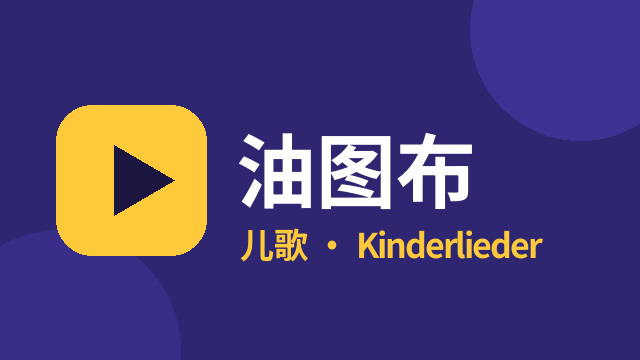
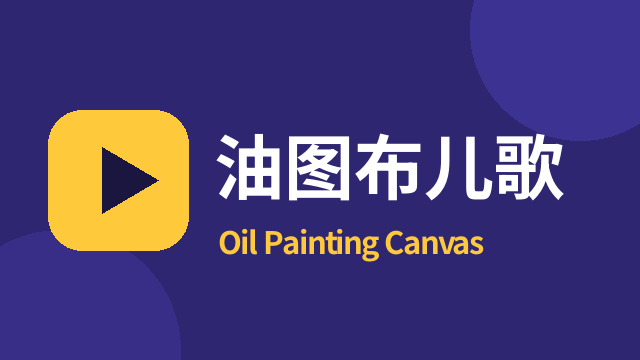
v1.4: 许可证说明和名称统一
- 「关于」页面和 GitHub 一致：软件本身按 GPL-3.0 开源（可以自由使用、修改、再分发）；「仅供个人观看」限制的是视频内容，不再和开源许可证矛盾
- 「关于」页面新增「许可证」一段，附源码地址 github.com/shuangyangtt/oil-painting-canvas
- 加上英文名 Oil Painting Canvas：关于页标题和电视桌面横幅图上都有

Changed region(s): [[0.0938, 0.275, 0.875, 0.7333], [0.0625, 0.3361, 0.0938, 0.6722], [0.0938, 0.3056, 0.125, 0.3361]]

diff --git a/app/src/main/java/app/youtubu/tv/About.kt b/app/src/main/java/app/youtubu/tv/About.kt
@@ -45,7 +45,7 @@ val ABOUT_SECTIONS = listOf(
     AboutSection(
         "这是什么",
         listOf(
-            "油图布儿歌是为家里孩子自制的儿歌播放器，只给自己家使用。",
+            "油图布儿歌（英文名 Oil Painting Canvas）是为家里孩子自制的儿歌播放器，用投影仪或电视的遥控器就能自己选歌。",
             "它不是 YouTube 或 Google 的产品，和 YouTube、Google 以及软件里出现的各个儿歌频道没有任何关系，也没有得到它们的授权或认可。",
         ),
     ),
@@ -67,9 +67,9 @@ val ABOUT_SECTIONS = listOf(
         ),
     ),
     AboutSection(
-        "仅限个人、非商业使用",
+        "视频内容仅供个人观看",
         listOf(
-            "本软件仅供个人和家庭学习、自用，不得用于任何商业用途，不得出售、出租或公开传播本软件和其中的内容。",
+            "通过本软件看到的视频属于各自的版权人，只能个人和家庭观看，不得用于商业用途，也不得录制、下载后再传播。",
             "绕开广告和不登录播放的方式可能不符合 YouTube 的服务条款。是否使用、如何使用，由使用者自行判断并承担责任。",
         ),
     ),
@@ -86,6 +86,14 @@ val ABOUT_SECTIONS = listOf(
         listOf(
             "本软件按现状提供，不提供任何形式的保证。YouTube 或 Invidious 的变化可能让部分或全部功能随时失效。",
             "频道是家长自己挑选的，视频内容由各频道负责。请家长先看过再给孩子看，并陪伴孩子使用。",
+        ),
+    ),
+    AboutSection(
+        "许可证",
+        listOf(
+            "油图布儿歌是自由软件，按 GNU 通用公共许可证第 3 版（GPL-3.0）发布：可以自由地使用、学习、修改和再分发；再分发（包括修改后的版本）时必须同样按 GPL-3.0 开源并附上源码。",
+            "许可证只适用于本软件自己的源代码，不包括软件里显示的视频、封面和频道名称。",
+            "源代码：github.com/shuangyangtt/oil-painting-canvas",
         ),
     ),
 )
@@ -136,7 +144,7 @@ fun AboutScreen(state: AppState) {
                 .padding(horizontal = 120.dp, vertical = 40.dp),
         ) {
             Row(verticalAlignment = Alignment.Bottom) {
-                T("关于油图布儿歌", size = 30.sp, weight = FontWeight.Bold)
+                T("关于油图布儿歌 · Oil Painting Canvas", size = 30.sp, weight = FontWeight.Bold)
                 Spacer(Modifier.width(16.dp))
                 T("版本 ${appVersion(context)}", size = 16.sp, color = C.dim)
             }

diff --git a/README.md b/README.md
@@ -1,6 +1,6 @@
-<p align="center"><img src="docs/banner.png" width="360" alt="油图布"></p>
+<p align="center"><img src="docs/banner.png" width="360" alt="油图布儿歌"></p>
 
-# 油图布 · Oil Painting Canvas
+# 油图布儿歌 · Oil Painting Canvas
 
 给两岁孩子用**投影仪 / 安卓电视遥控器**自己选儿歌的播放器。一排排大封面，不认字也能选；只显示家长挑好的英文和德文儿歌频道，没有广告、搜索框、评论和推荐。
 
@@ -65,6 +65,7 @@ echo "sdk.dir=$HOME/Android/Sdk" > local.properties
 
 | 版本 | 内容 |
 |---|---|
+| [v1.4](../../releases/tag/v1.4) | 许可证说明和名称统一（GPL-3.0、英文名 Oil Painting Canvas） |
 | [v1.3](../../releases/tag/v1.3) | 「关于 · 免责声明」页面 |
 | [v1.2](../../releases/tag/v1.2) | 自动批量缓存和离线模式 |
 | [v1.1](../../releases/tag/v1.1) | 修复画面卡住、加 4 GB 视频缓存 |
@@ -76,7 +77,7 @@ echo "sdk.dir=$HOME/Android/Sdk" > local.properties
 
 <p align="center"><img src="docs/about.png" width="560" alt="关于页面"></p>
 
-- **这是什么**：油图布是为自己家孩子自制的儿歌播放器。它不是 YouTube 或 Google 的产品，和 YouTube、Google 以及软件里出现的各个儿歌频道没有任何关系，也没有得到它们的授权或认可。
+- **这是什么**：油图布儿歌是为自己家孩子自制的儿歌播放器。它不是 YouTube 或 Google 的产品，和 YouTube、Google 以及软件里出现的各个儿歌频道没有任何关系，也没有得到它们的授权或认可。
 - **软件来源**：电视版的界面和用法沿用电脑版「油图布」，电脑版基于开源项目 [FreeTube](https://freetubeapp.io)（AGPL-3.0）。电视版是另外编写的程序，不包含 FreeTube 的代码；去广告和高清视频依靠开源项目 [Invidious](https://invidious.io)（AGPL-3.0），视频列表和视频地址都经由 Invidious 服务器获取。其他开源软件（均为 Apache-2.0）：AndroidX Media3、Jetpack Compose、OkHttp、Coil、ZXing。感谢以上项目的作者和维护者。
 - **视频来源与版权**：所有视频、封面、频道名称和头像都来自 YouTube，版权归原作者和频道所有。本软件不保存、不修改、也不重新发布任何视频内容；离线缓存只临时保存在本机上，供自己家观看。喜欢某个频道，请到 YouTube 上关注并支持原作者。
 - **视频内容仅供个人观看**：软件本身按 GPL-3.0 开源（见下文「许可证」）；但通过它看到的视频属于各自的版权人，只能个人和家庭观看，不得用于商业用途，也不得录制、下载后再传播。绕开广告和不登录播放的方式可能不符合 YouTube 的服务条款，是否使用、如何使用，由使用者自行判断并承担责任。
@@ -85,7 +86,7 @@ echo "sdk.dir=$HOME/Android/Sdk" > local.properties
 
 ## 许可证 · License
 
-油图布（Oil Painting Canvas）是自由软件，按 [GNU 通用公共许可证第 3 版（GPL-3.0）](LICENSE) 发布：你可以自由地使用、学习、修改和再分发它；再分发（包括修改后的版本）时必须同样按 GPL-3.0 开源，并附上源码。本软件不提供任何担保。
+油图布儿歌（Oil Painting Canvas）是自由软件，按 [GNU 通用公共许可证第 3 版（GPL-3.0）](LICENSE) 发布：你可以自由地使用、学习、修改和再分发它；再分发（包括修改后的版本）时必须同样按 GPL-3.0 开源，并附上源码。本软件不提供任何担保。
 
 This program is free software: you can redistribute it and/or modify it under the terms of the GNU General Public License as published by the Free Software Foundation, version 3. It is distributed WITHOUT ANY WARRANTY. See [LICENSE](LICENSE).
 
